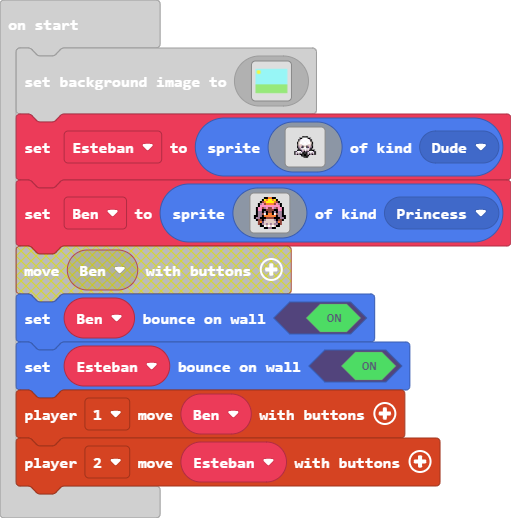
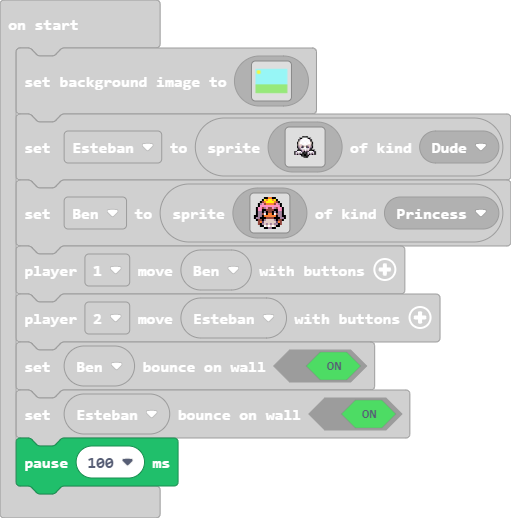
Update main.blocks, main.ts

diff --git a/main.ts b/main.ts
@@ -173,3 +173,4 @@ controller.player1.moveSprite(Ben)
 controller.player2.moveSprite(Esteban)
 Ben.setBounceOnWall(true)
 Esteban.setBounceOnWall(true)
+pause(100)
